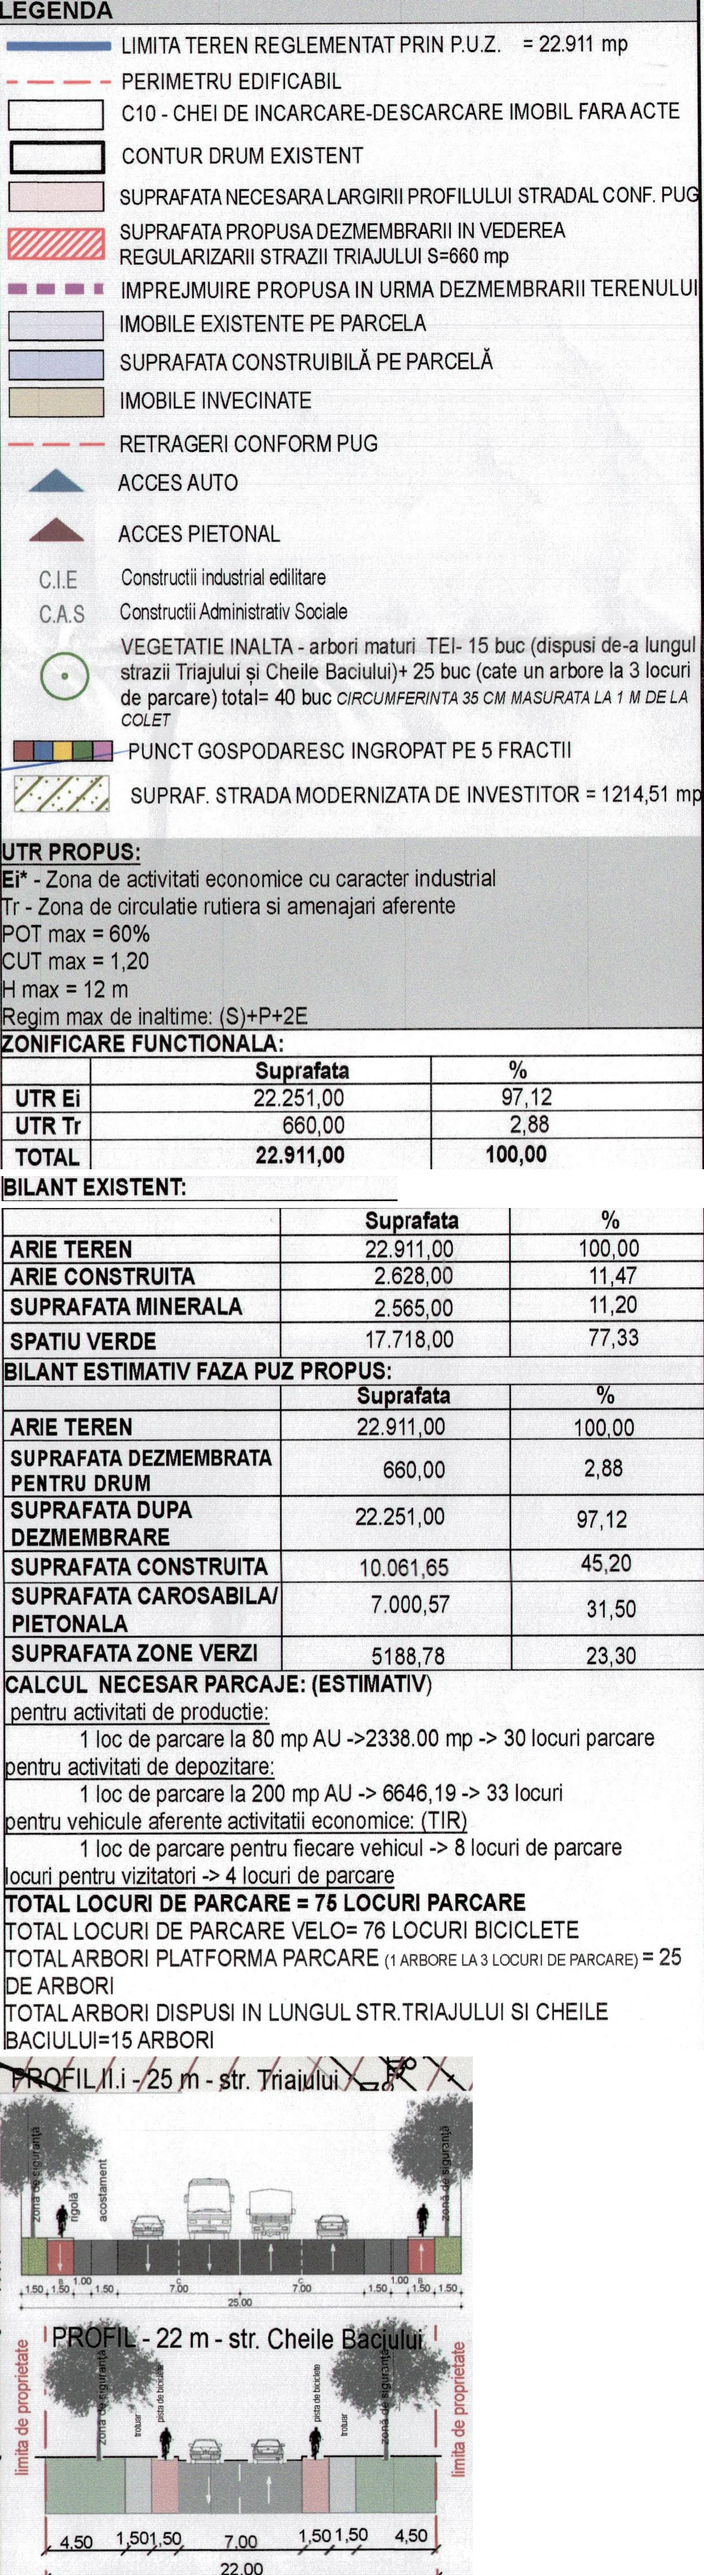
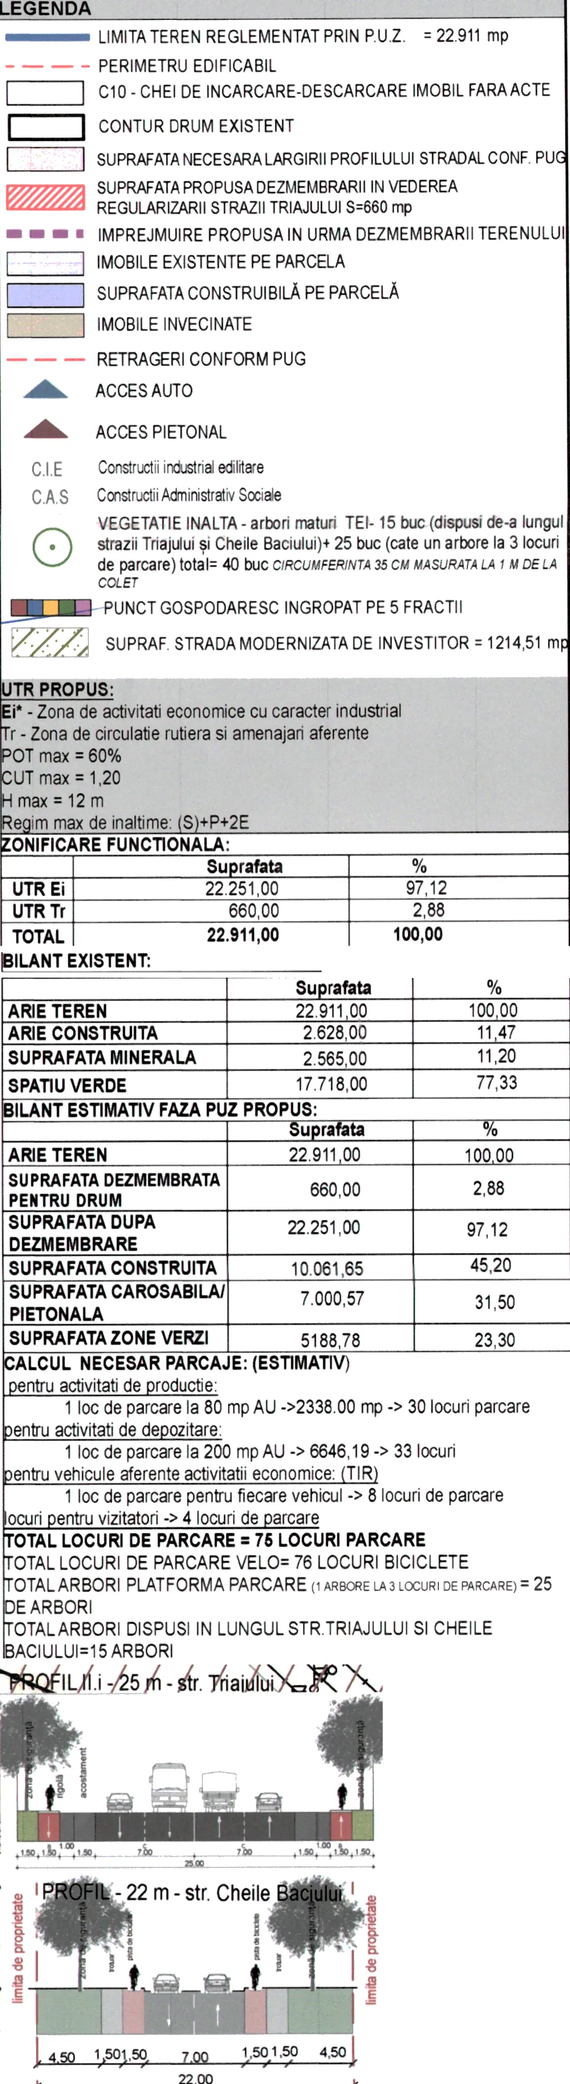
puz.py: geometry checks before any control point; lighter legends
From the agent's report on 627/2026:
- build with no gcp_px runs the area, side and perimeter checks of a
  transcribed inventory and stops, instead of failing in the fit; the
  table can be checked before picking points.
- Legends are capped at 1000 px wide, median-filtered with the paper
  lifted to white, and saved at quality 80: 627/2026's legend goes from
  1.1 MB to 350 KB, 621/2022's from 257 KB to 106 KB, print unchanged.

diff --git a/tools/puz/puz.py b/tools/puz/puz.py
@@ -64,6 +64,7 @@ MAX_RESIDUAL_PX = 4
 # good to a few metres, and the result is published as approximate.
 MAX_RESIDUAL_OSM_M = 5.0
 OUTPUT_RES_3857 = 0.07         # metres (EPSG:3857 units) per output pixel, ~z21
+LEGEND_MAX_W = 1000            # px
 
 Image.MAX_IMAGE_PIXELS = None
 
@@ -1051,6 +1052,14 @@ def legend_image(r):
     y = 0
     for c in crops:
         out.paste(c, (0, y)); y += c.height + 12
+    # The legend card shows it at most ~600 px wide; 300 ppi scans gave 1 MB legends
+    # (627/2026). 1000 px keeps small print legible when zoomed.
+    if out.width > LEGEND_MAX_W:
+        out = out.resize((LEGEND_MAX_W, round(out.height * LEGEND_MAX_W / out.width)), Image.LANCZOS)
+    # Scan grain compresses badly: a 3x3 median and paper lifted to white halve the
+    # file without touching the print.
+    from PIL import ImageFilter
+    out = out.filter(ImageFilter.MedianFilter(3)).point([255 if v > 215 else v for v in range(256)] * 3)
     return out
 
 
@@ -1124,7 +1133,7 @@ def publish(r, overlay, legend, bounds, boundary, area, rms):
         # OSM's own error comes on top of the fit's: never claim better than 3 m.
         entry["georeferentiere"].update({"aproximativ": True, "precizie_m": int(round(max(3.0, 2 * rms)))})
     if legend is not None:
-        legend.save(os.path.join(d, "legenda.webp"), quality=85, method=6)
+        legend.save(os.path.join(d, "legenda.webp"), quality=80, method=6)
         entry["legenda"] = "puz/%s/legenda.webp" % r["id"]
     # What the decision's text adds to the plate. Validity runs to the last extension.
     v = r.get("valabilitate") or {}
@@ -1163,6 +1172,12 @@ def cmd_build(r, args):
         cmd_render(r, args)
     if not (r.get("valabilitate") or {}).get("pana_la"):
         print("WARNING: no validity in the recipe - run `hcl` and set `valabilitate`")
+    if not r.get("gcp_px"):
+        # Right after transcribing an inventory, before any point is picked: the
+        # area, side and perimeter checks need no fit, so run them alone.
+        if points_en(r):
+            check_area(r, ring_en(r))
+        sys.exit("no control points yet - geometry checks above; pick gcp_px to go on")
     ok_fit, pe, pn, rms, worst = check_fit(r)
     ring = ring_en(r, pe, pn)
     ok_area, area = check_area(r, ring)
@@ -1176,7 +1191,7 @@ def cmd_build(r, args):
     if args.dry_run:
         overlay.save(os.path.join(cache_dir(r), "plansa.webp"), quality=82)
         if legend is not None:
-            legend.save(os.path.join(cache_dir(r), "legenda.webp"), quality=85)
+            legend.save(os.path.join(cache_dir(r), "legenda.webp"), quality=80)
         print("dry run: outputs left in", cache_dir(r))
         return
     publish(r, overlay, legend, bounds, boundary, area, rms)
